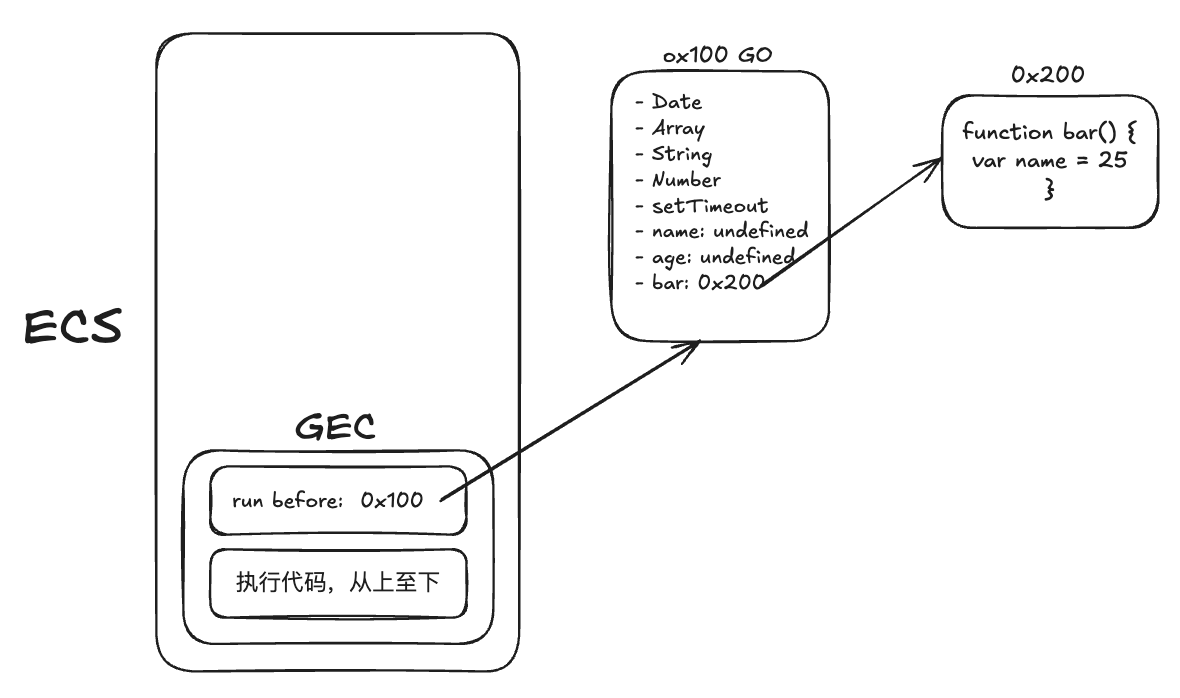
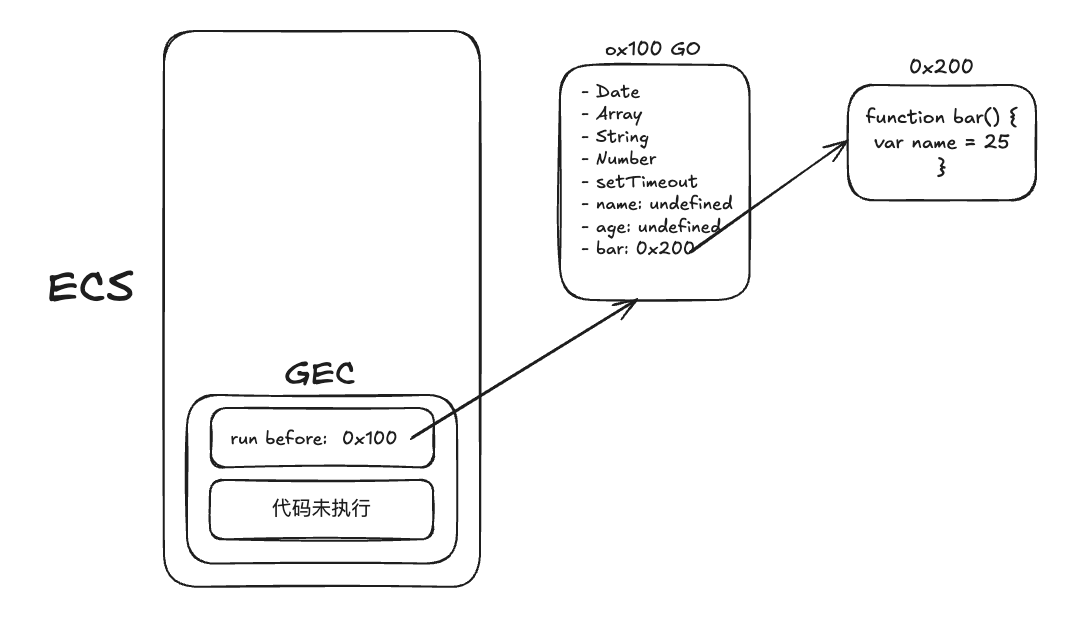
docs: fix typo and update function execution context explanation

diff --git a/docs/js/basic/run-scope-chain/index.md b/docs/js/basic/run-scope-chain/index.md
@@ -63,7 +63,7 @@ js 引擎内部有一个**执行上下文栈**，是代码的调用栈
 - 执行全局代码，会构建出一个全局执行上下文栈（GEC）
   1. parser -> AST 树过程中，将全局定义的变量、函数加入到 Global Object 中，但是不会赋值，也称 hoisting （作用域提升）
   2. 执行代码，对变量赋值或者执行其他的函数
-  3. 此时的 VO === GO
+  3. 此时的 VO == GO
 
 解析图：
 
@@ -72,3 +72,20 @@ js 引擎内部有一个**执行上下文栈**，是代码的调用栈
 
 **代码开始执行**
 ![run](../../images/run.png)
+
+### FEC
+
+前面分析到了 ESC，当执行到函数的时候会创建一个函数执行上下文 （FEC），并且压入到 stack 中
+
+1. 当进入到函数执行上下文，会创建一个 AO 对象
+2. 使用 arguments 作为初始化，初始值是传入的参数
+3. 此时的 scope 已经产生，作用域跟哪里定义的有关，跟哪里执行无关
+4. 此时的 VO == AO
+
+解析图：
+
+**解析阶段**
+![GEC](../../images/fec.png)
+
+**代码开始执行**
+![run](../../images/func_run.png)
